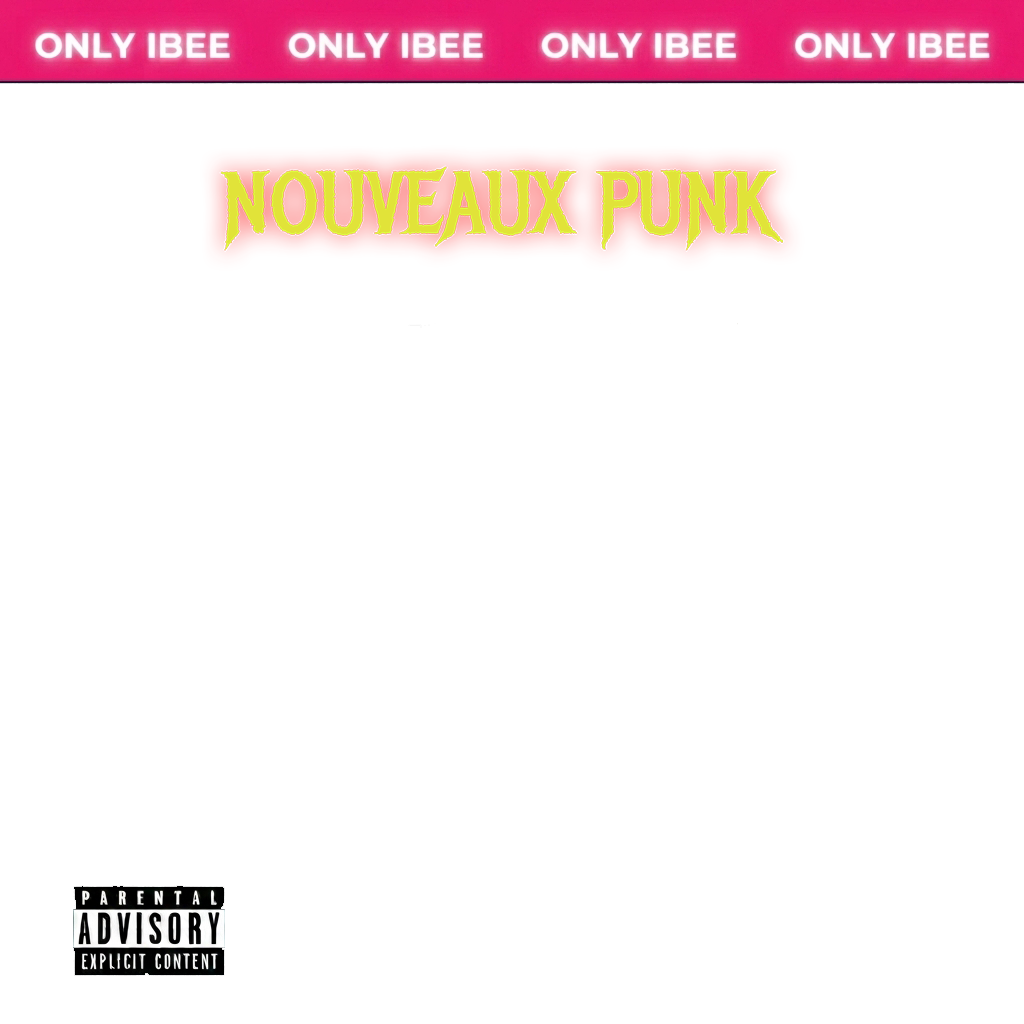
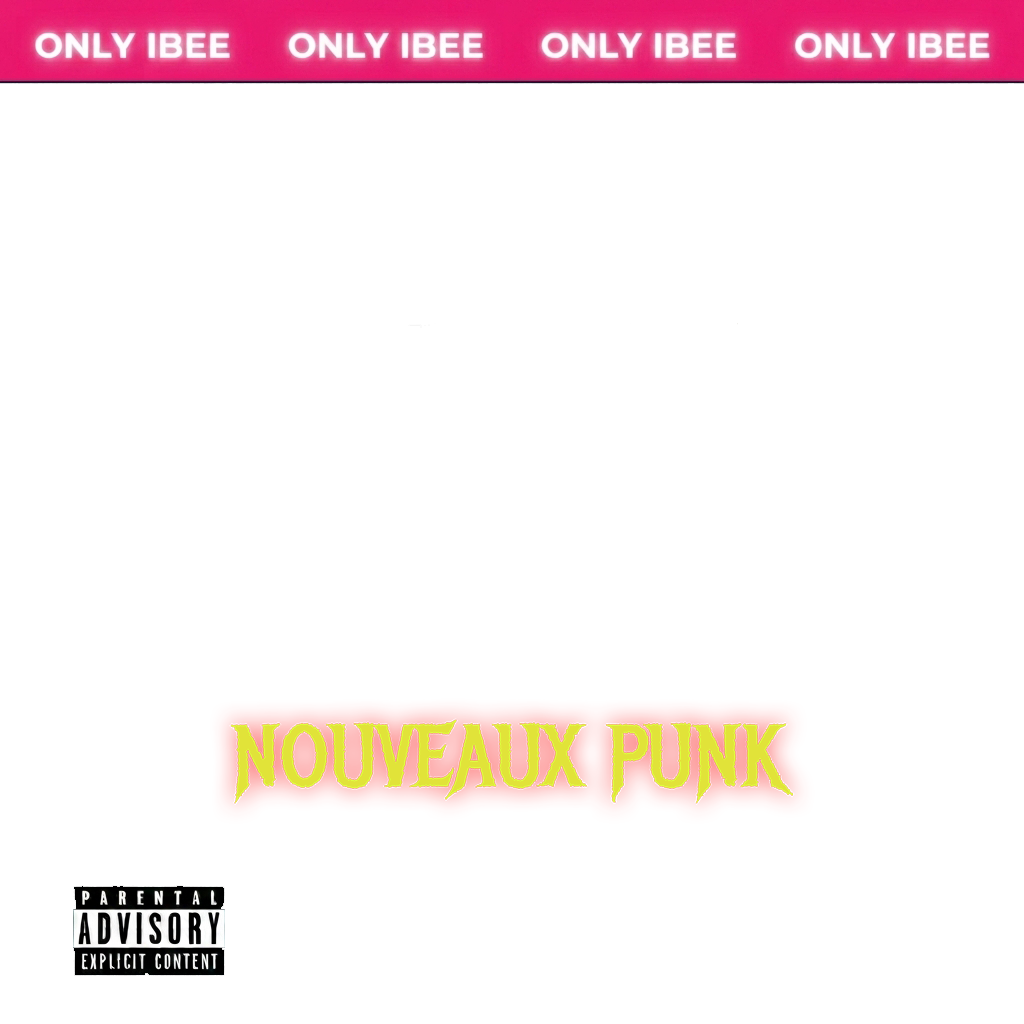
np2: revised sleeve overlay — the wordmark moves to the foot
New artwork from the same source. Re-measured its alpha rather than assuming
the old geometry still held:

  band      y  0.0- 8.0%   full width          (unchanged)
  wordmark  y 70.5-78.0%   x 22.7-77.3%        (was y 16.5-24.2% — now the foot)
  advisory  y 86.5-95.1%   x  7.2-21.9%        (unchanged)

Nothing had to move: the REC badge at y 10.5% and the waveform at y 91.7-97.5%
/ x 25-97% both still sit in clear air (checked in the browser, not by eye).
The top of every archive is now empty except the band, so faces breathe.

The filename did not change, so the frame is requested as ?v=2 — otherwise
everyone who has already opened the page keeps the old artwork from cache.

Changed region(s): [[0.1875, 0.1562, 0.7812, 0.25], [0.2188, 0.6875, 0.7812, 0.7812]]

diff --git a/np2/index.html b/np2/index.html
@@ -168,9 +168,13 @@ body.neon h1{text-shadow:0 0 calc(18px + var(--nb,0)*30px) rgba(232,220,18,.6),
    artwork (assets/img/np2/np2-sleeve.png) is a transparent PNG carrying only
    the pink ONLY IBEE band, the dripping wordmark and the PARENTAL ADVISORY
    block — so it lays straight over the photograph and the picture reads
-   through everywhere else. Opaque regions, measured off the file's alpha:
-   band y 0-8%, wordmark y 16.5-24.2% (x 21.7-76.4%), advisory y 86.5-95.1%
-   (x 7.2-21.9%). Anything that must stay legible lives outside those. */
+   through everywhere else. Opaque regions, measured off the file's own alpha:
+     band      y  0.0- 8.0%   full width
+     wordmark  y 70.5-78.0%   x 22.7-77.3%   (moved to the foot 2026-08-19)
+     advisory  y 86.5-95.1%   x  7.2-21.9%
+   Anything that must stay legible lives outside those, so: the REC badge sits
+   at y 10.5% (under the band, above everything else) and the waveform runs
+   x 25-97% at the very foot, past the advisory and below the wordmark. */
 .feed{display:grid;grid-template-columns:minmax(0,1.05fr) minmax(0,1fr);gap:16px;align-items:start}
 @media(max-width:760px){.feed{grid-template-columns:1fr}
   .plate{max-width:460px;margin:0 auto;width:100%}}
@@ -416,7 +420,7 @@ body.neon #roomtag.gone{opacity:0}
         <div class="win">
           <img id="plateimg" alt="" loading="lazy">
           <video id="platevid" muted loop playsinline preload="none" aria-hidden="true"></video>
-          <img class="frame" src="../assets/img/np2/np2-sleeve.png" alt="" aria-hidden="true">
+          <img class="frame" src="../assets/img/np2/np2-sleeve.png?v=2" alt="" aria-hidden="true">
           <canvas id="platewave" width="600" height="80" aria-hidden="true"></canvas>
           <span class="rec" id="platerec">● REC</span>
         </div>
@@ -604,7 +608,7 @@ body.neon #roomtag.gone{opacity:0}
     for(var i=0;i<4;i++){
       html+='<figure class="sleeve"><div class="win"><img alt="" loading="lazy">'
         +(i===0?'<video muted loop playsinline preload="none" aria-hidden="true"></video>':'')
-        +'<img class="frame" src="'+IMG+'np2-sleeve.png" alt="" aria-hidden="true">'
+        +'<img class="frame" src="'+IMG+'np2-sleeve.png?v=2" alt="" aria-hidden="true">'
         +'<span class="rec">● LIVE</span></div>'
         +'<span class="cap">CAM 0'+(i+1)+'</span></figure>';
     }
